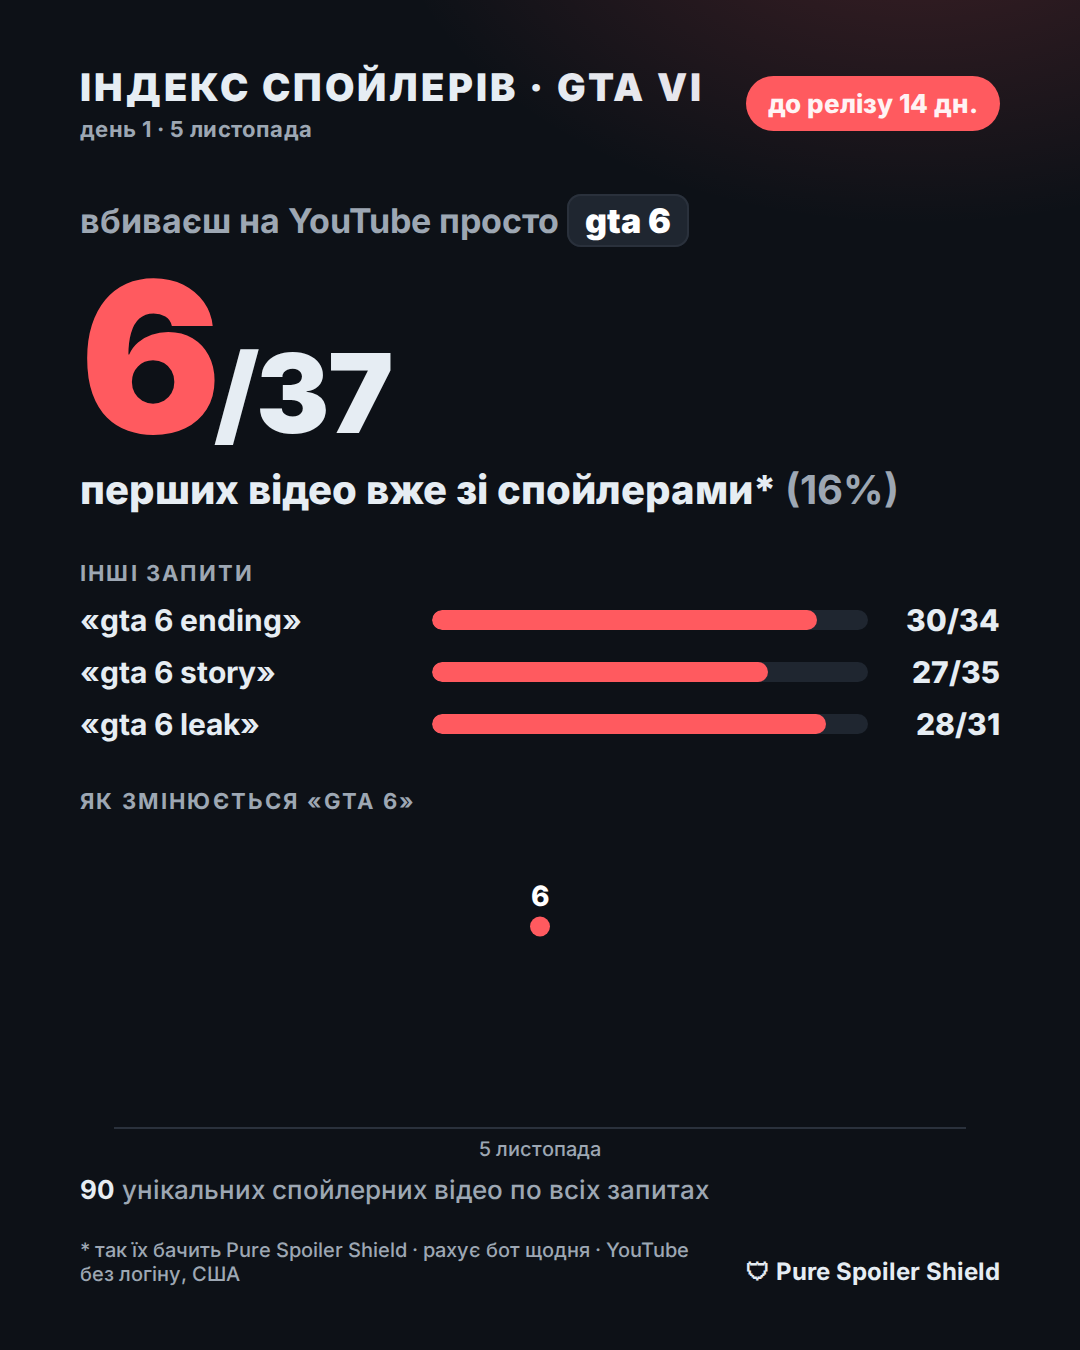
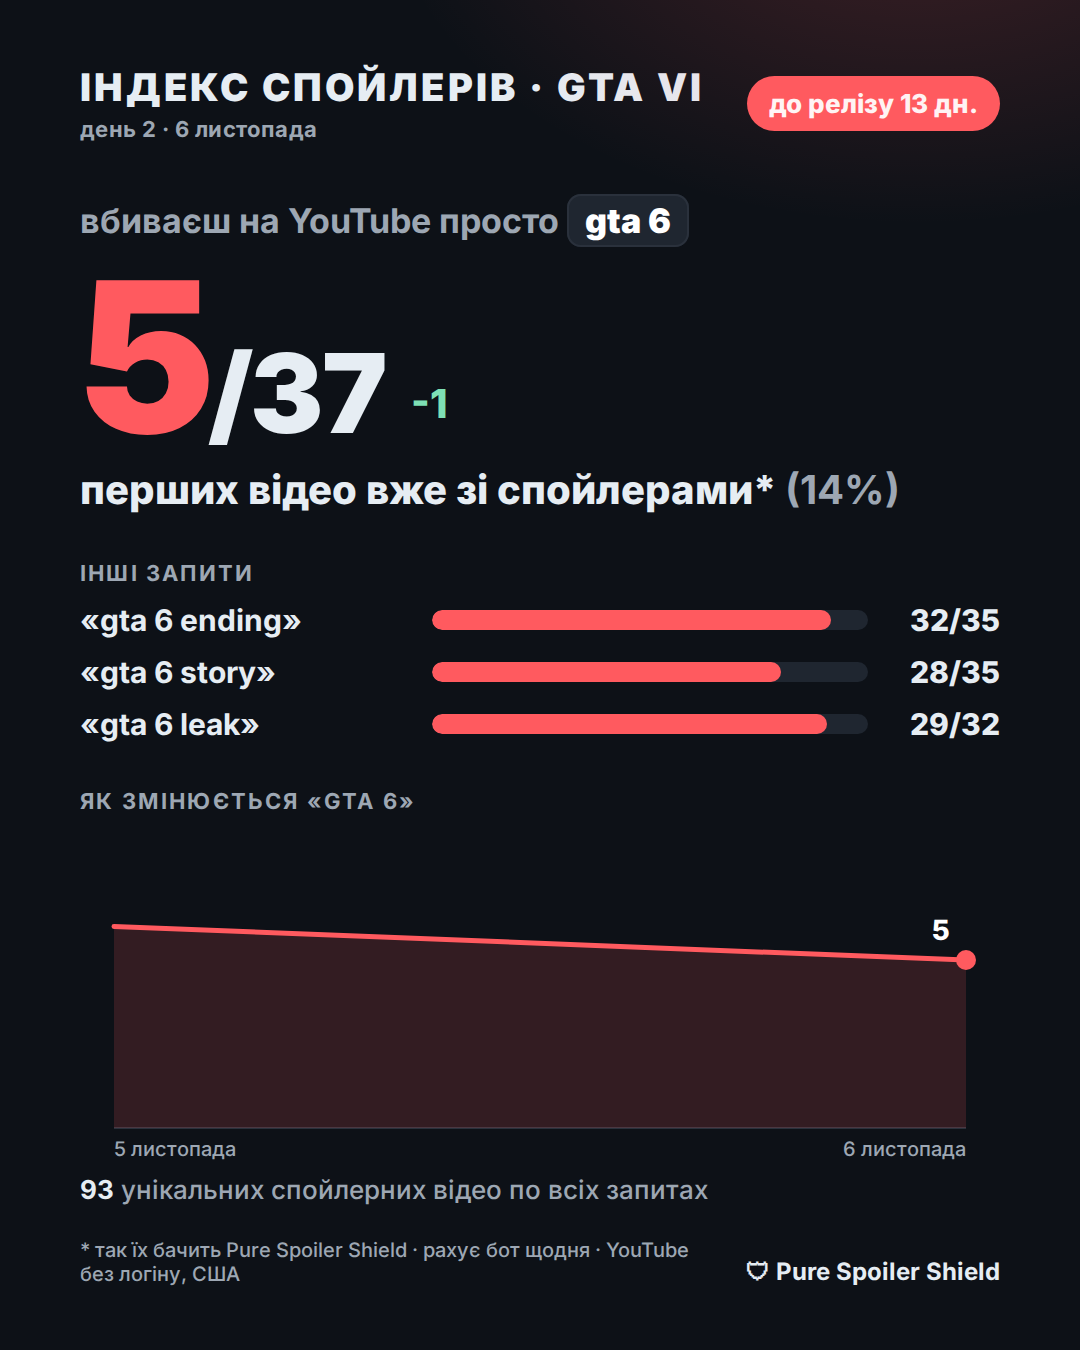
spoiler index: 2026-11-06

diff --git a/spoiler-index/index.html b/spoiler-index/index.html
@@ -4,24 +4,25 @@
 <meta charset="utf-8">
 <meta name="viewport" content="width=device-width, initial-scale=1">
 <title>GTA 6 Spoiler Index: how many YouTube results carry spoilers, counted daily</title>
-<meta name="description" content="Today 6 of the top 37 YouTube results for &quot;gta 6&quot; carry spoilers. Counted every day by a bot with no login, from 2026-11-05.">
+<meta name="description" content="Today 5 of the top 37 YouTube results for &quot;gta 6&quot; carry spoilers. Counted every day by a bot with no login, from 2026-11-05.">
 <link rel="canonical" href="https://qwemort.github.io/pure-guides/spoiler-index/">
 <link rel="stylesheet" href="../style.css">
 <meta property="og:title" content="GTA 6 Spoiler Index: how many YouTube results carry spoilers, counted daily">
-<meta property="og:description" content="Today 6 of the top 37 YouTube results for &quot;gta 6&quot; carry spoilers. Counted every day by a bot with no login, from 2026-11-05.">
+<meta property="og:description" content="Today 5 of the top 37 YouTube results for &quot;gta 6&quot; carry spoilers. Counted every day by a bot with no login, from 2026-11-05.">
 <meta property="og:image" content="https://qwemort.github.io/pure-guides/spoiler-index/latest-en.png">
 <meta name="twitter:card" content="summary_large_image">
-<script type="application/ld+json">{"@context":"https://schema.org","@type":"Dataset","name":"GTA 6 Spoiler Index","description":"Today 6 of the top 37 YouTube results for \"gta 6\" carry spoilers. Counted every day by a bot with no login, from 2026-11-05.","url":"https://qwemort.github.io/pure-guides/spoiler-index/","temporalCoverage":"2026-11-05/2026-11-05","isAccessibleForFree":true,"license":"https://creativecommons.org/licenses/by/4.0/","creator":{"@type":"Organization","name":"Pure guides"},"distribution":{"@type":"DataDownload","encodingFormat":"application/json","contentUrl":"https://qwemort.github.io/pure-guides/data/spoiler-index.json"}}</script>
+<script type="application/ld+json">{"@context":"https://schema.org","@type":"Dataset","name":"GTA 6 Spoiler Index","description":"Today 5 of the top 37 YouTube results for \"gta 6\" carry spoilers. Counted every day by a bot with no login, from 2026-11-05.","url":"https://qwemort.github.io/pure-guides/spoiler-index/","temporalCoverage":"2026-11-05/2026-11-06","isAccessibleForFree":true,"license":"https://creativecommons.org/licenses/by/4.0/","creator":{"@type":"Organization","name":"Pure guides"},"distribution":{"@type":"DataDownload","encodingFormat":"application/json","contentUrl":"https://qwemort.github.io/pure-guides/data/spoiler-index.json"}}</script>
 </head>
 <body>
 <main>
 <a class="brand" href="../">← Pure guides</a>
 <h1>GTA 6 Spoiler Index</h1>
-<p class="muted">Updated 2026-11-05 · day 1 · 14 days to release</p>
-<div class="note tldr"><strong>Today:</strong> search YouTube for just "gta 6" and <strong>6 of the top 37</strong> videos already carry spoilers. Across all four searches below there are <strong>90</strong> unique spoiler videos.</div>
-<figure><img src="latest-en.png" alt="GTA 6 spoiler index card for 2026-11-05" width="1080" height="1350"></figure>
+<p class="muted">Updated 2026-11-06 · day 2 · 13 days to release</p>
+<div class="note tldr"><strong>Today:</strong> search YouTube for just "gta 6" and <strong>5 of the top 37</strong> videos already carry spoilers. Across all four searches below there are <strong>93</strong> unique spoiler videos.</div>
+<figure><img src="latest-en.png" alt="GTA 6 spoiler index card for 2026-11-06" width="1080" height="1350"></figure>
 <h2>Every day</h2>
 <table><tr><th>Date</th><th>"gta 6"</th><th>"gta 6 ending"</th><th>"gta 6 story"</th><th>"gta 6 leak"</th><th>Unique spoiler videos</th></tr>
+<tr><td>2026-11-06</td><td><strong>5</strong> / 37</td><td>32 / 35</td><td>28 / 35</td><td>29 / 32</td><td>93</td></tr>
 <tr><td>2026-11-05</td><td><strong>6</strong> / 37</td><td>30 / 34</td><td>27 / 35</td><td>28 / 31</td><td>90</td></tr>
 </table>
 <p>Raw numbers: <a href="../data/spoiler-index.json">spoiler-index.json</a> (free to reuse with a link back).</p>
